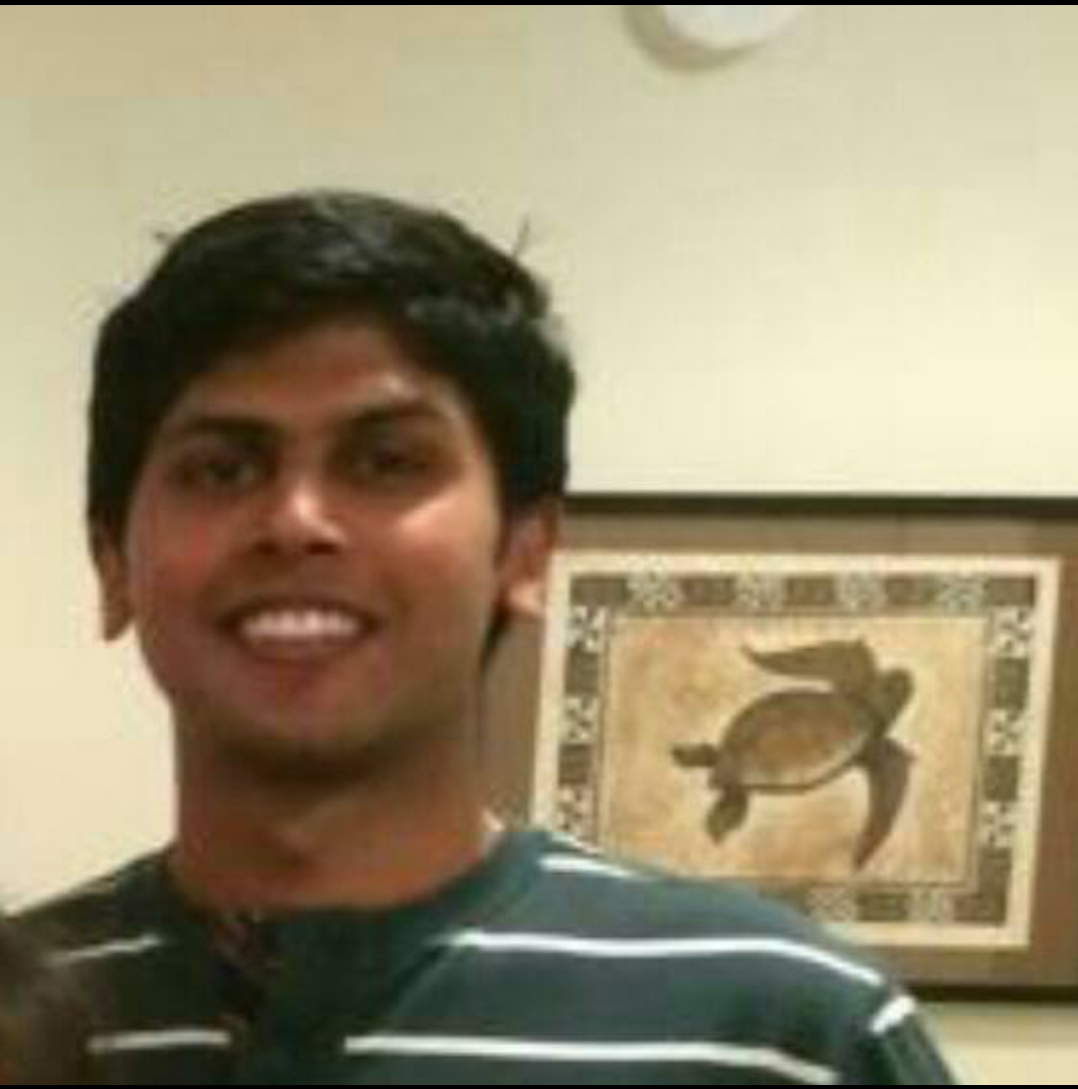
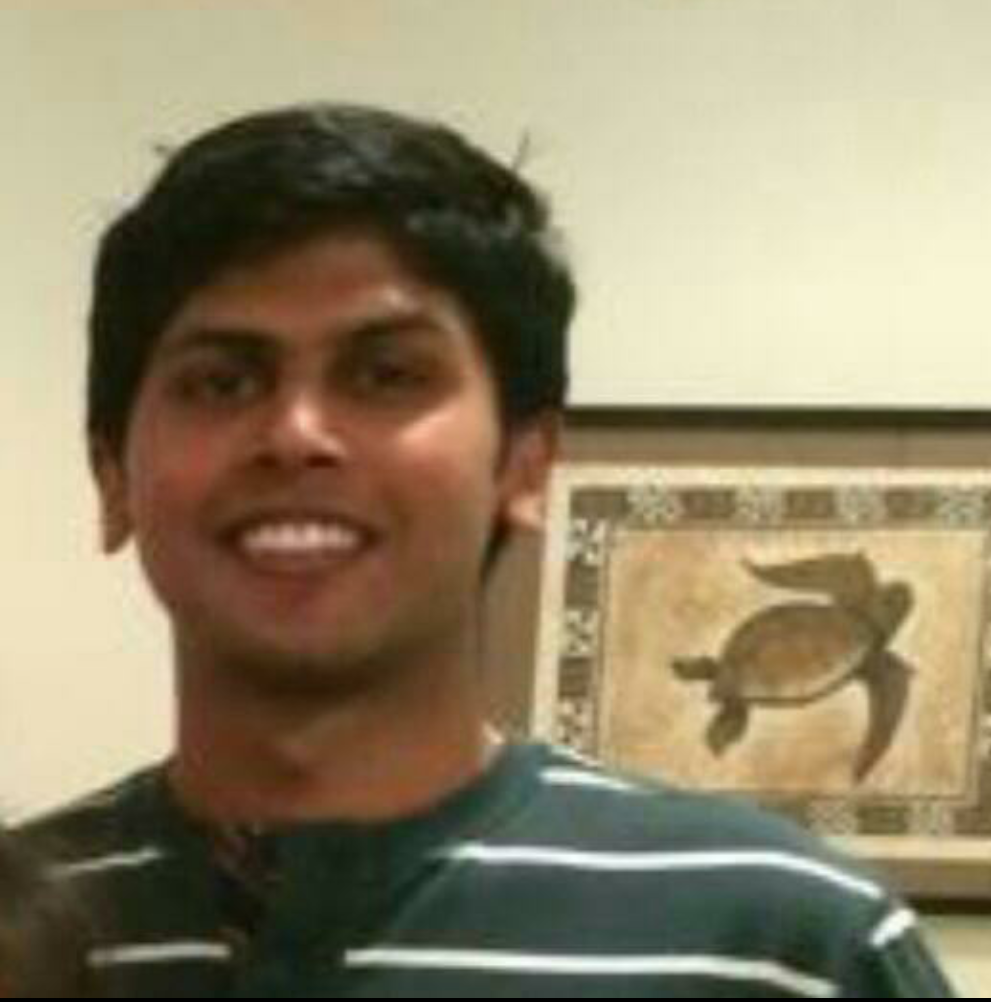
changed headshot to circular frame

diff --git a/index.html b/index.html
@@ -10,8 +10,16 @@
     <link rel="stylesheet" type="text/css" href="stylesheets/github-light.css" media="screen">
   </head>
   <body>
+   <div class="dropdown">
+  <button onclick="myFunction()" class="dropbtn">Dropdown</button>
+  <div id="myDropdown" class="dropdown-content">
+    <a href="#">Link 1</a>
+    <a href="#">Link 2</a>
+    <a href="#">Link 3</a>
+  </div>
+  </div>
     <section class="page-header">
-      <img src="./images/headshot.png" alt="headshot" style="float:left;width:128px;height:128px;">
+      <img class="img-circle" src="./images/headshot.png" alt="headshot" style="float:left;width:128px;height:128px;">
      
       <h1 class="project-name"></h1>
       <h2 class="project-tagline">Welcome to Shiv's page !</h2>
